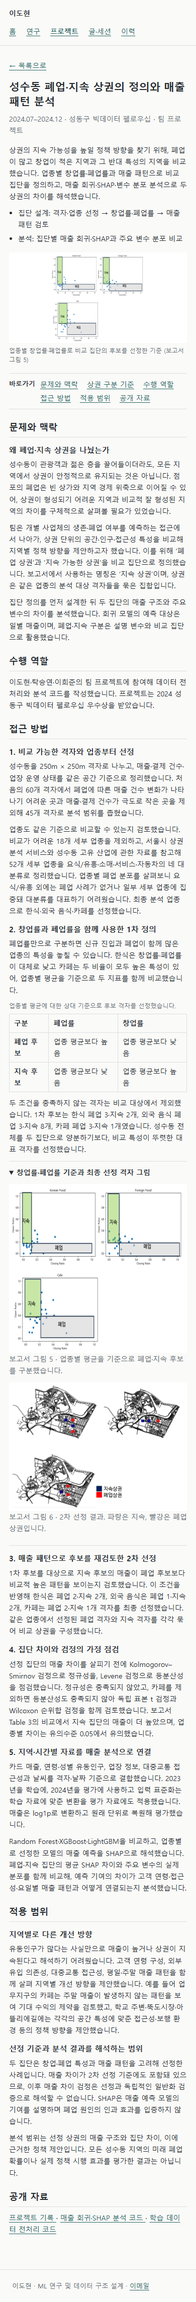
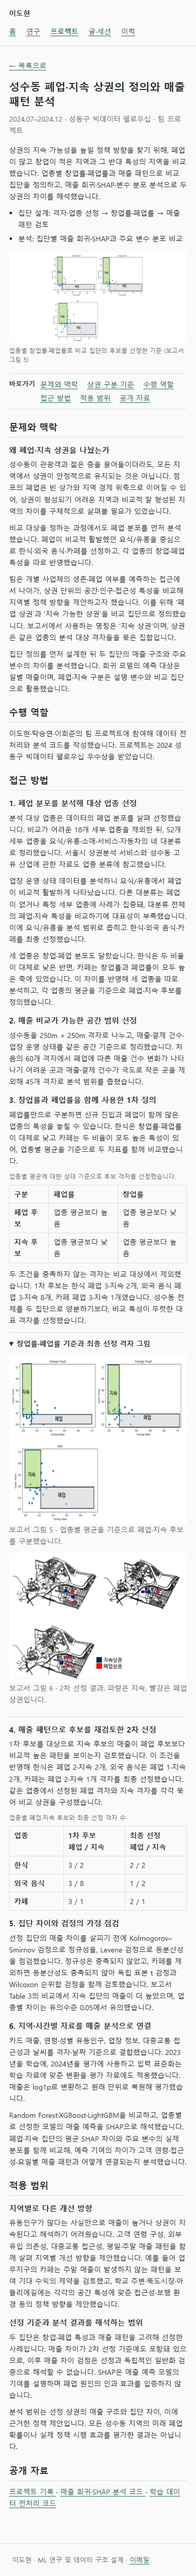
Highlight data-driven fellowship industry selection

Changed region(s): [[0.0308, 0.0, 0.9538, 0.9996]]

diff --git a/assets/previews-data.js b/assets/previews-data.js
@@ -1,1 +1,1 @@
-window.portfolioPreviews = {"research/adaboost-rdt.html": {"title": "잔차 정보를 활용한 극단 수요 예측", "meta": "IEEE ACCESS, 2024, 1저자", "summary": "극단 수요를 노이즈로 약화시키지 않고 예측하기 위해 A-MT와 잔차 트리 R-DT를 결합했습니다. 극단 수요의 오차 감소와 매우 낮은 수요의 오차 증가를 함께 평가한 연구입니다.", "points": ["방법: 선택적 Lasso 모델 트리 + 잔차 부호 특징 + 분위수 조정", "결과: 극단 수요 오차 감소와 매우 낮은 수요 오차 증가의 상충"], "image": "images/research/paper-adaboost-framework.png", "caption": "원고 Figure 1 · 수요 학습, 잔차 학습, 다음 반복의 추가 특징과 최종 예측 조정. 논문"}, "research/baseball.html": {"title": "카운트 전이 확률로 계산한 상황 중요도", "meta": "Journal of Sports Sciences, 2024, 공동1저자", "summary": "한 투구가 타석의 유불리를 얼마나 바꾸는지 IOM(Importance of Moment)으로 정의했습니다. 타석이 즉시 끝나는 경우와 볼·스트라이크로 이어지는 경우를 구분해 가중하고, 카운트별 중요도를 패스트볼 구속과 연결해 분석했습니다.", "points": ["정의: 즉시 종료와 카운트 진행의 중요도를 발생 확률로 가중", "결과: IOM·평균 구속 순위 상관 0.90; 일부 경로 독립성 한계"], "image": "images/research/baseball-pitcher-batter.png", "caption": "투수와 타자의 대결 상황 · 발표 자료 3쪽 (원 출처: smcncad)"}, "research/biased-learning.html": {"title": "불균형 데이터의 편향 학습 방지", "meta": "박사학위논문, 2025 · 학위논문 저자", "summary": "소수 클래스가 충분히 학습되지 않는 불균형 데이터 문제를 다룬 2025년 박사학위 연구입니다.", "points": ["문제: 다수 클래스 중심의 학습과 소수 클래스 정보 손실", "관련 공개 연구: 클래스별 노이즈 필터링·오버샘플링"], "image": "images/research/biased-learning-method.svg", "caption": "불균형 데이터의 편향 학습 방지 · 연구 주제 개념도"}, "research/masters-oversampling.html": {"title": "분류 난이도를 반영하는 오버샘플링 크기 산출", "meta": "석사학위논문, 2020 · 학위논문 저자", "summary": "소수 클래스 표본을 얼마나 생성할지 분류 복잡도를 활용해 결정하는 2020년 석사학위 연구입니다.", "points": ["문제: 소수 클래스 생성량을 일괄적으로 정하는 방식", "주제: 클래스 구분 난이도를 생성량 산출에 반영"], "image": "images/research/masters-oversampling-method.svg", "caption": "분류 난이도를 반영하는 오버샘플링 크기 산출 · 연구 주제 개념도"}, "research/micro-mobility.html": {"title": "이용 패턴을 반영한 공간 단위 생성", "meta": "IET ITS, 2024, 1저자", "summary": "고정 격자의 크기·경계가 수요 예측에 미치는 MAUP를 다룹니다. 이용량이 적은 지역을 결합하고 시간 패턴과 거리를 함께 사용해 예측의 공간 단위를 구성했습니다.", "points": ["방법: 기본 격자 → 주요·보조 격자 결합 → 시공간 군집화", "결과: 두 도시의 RMSE 개선, Minneapolis의 MAPE는 악화"], "image": "images/research/paper-mobility-main-grids.png", "caption": "원고 Fig. 3 · 주요 격자를 선택하고 가까운 보조 격자를 결합하는 과정. 논문"}, "research/noise-filtering.html": {"title": "소수 클래스의 어려운 표본을 보존하는 노이즈 필터링", "meta": "JIFS, 2022, 1저자", "summary": "AdaBoost에서 어려운 소수 클래스 표본을 노이즈로 과도하게 제거하는 문제를 다룹니다. 클래스별 가중치 분포에 다른 임계값을 적용하고, 원본 및 노이즈 주입 자료에서 표본 보존과 AUROC를 평가했습니다.", "points": ["방법: 클래스별 평균 기준과 분포 비대칭을 고려한 두 임계값", "평가: 11개 데이터셋·노이즈 10–40%·AUROC와 표본 보존"], "image": "images/research/paper-noise-weight-distributions.png", "caption": "논문 Fig. 1 · 소수·다수 클래스의 가중치 분포, 임계값과 노이즈 판정 비율. Abalone 예시. 논문"}, "research/online-reviews.html": {"title": "리뷰의 만족 요인과 외국인 방문객 수의 관계", "meta": "Journal of the Korean Institute of Industrial Engineers, 2021, 2저자", "summary": "관광 리뷰에서 만족 요인과 감성 점수를 추출하고, 서울생활인구의 단기체류 외국인 지표와 연결해 분석했습니다.", "points": ["방법: 문장 토픽·감성 점수 → 지역·월별 회귀", "방문 규모: 서울생활인구의 단기체류 외국인 지표"], "image": "images/research/online-reviews-method.svg", "caption": "리뷰의 만족 요인과 외국인 방문객 수의 관계 · 연구 주제 개념도"}, "research/oversampling.html": {"title": "분류 복잡도로 정하는 소수 클래스 생성량", "meta": "ESWA, 2021, 1저자", "summary": "클래스 수를 같게 만드는 데 필요한 생성량에 분류 복잡도 T를 곱해 오버샘플링 크기를 정했습니다. 생성량을 줄였을 때 AUC를 유지하거나 개선할 수 있는지 16개 데이터셋에서 검증했습니다.", "points": ["방법: 생성량 = 클래스 표본 수 차이 × 복잡도 T", "평가: 16개 데이터셋·4개 부스팅 방식·반복 5분할 검증"], "image": "images/research/paper-oversampling-complexity.png", "caption": "원고 Figure 1 · 데이터셋별 F1·F2·N1·N2 분류 복잡도 값의 분포. 성능 지표 F1과는 다릅니다. 논문"}, "projects/documents.html": {"title": "문서 데이터 표준화 및 구조 설계", "meta": "수행 맥락 정리 중 · 문서 분석·표준화·구조 설계", "summary": "다양한 형식의 문서를 분석하고, 같은 정보의 표현 차이를 공통 기준으로 표준화했습니다. 사용과 유지보수를 고려한 데이터 구조 설계에 참여했습니다.", "points": ["작업: 문서의 표현 차이·맥락 분석", "범위: 공통 기준 정리·일관성 검토·구조 설계"], "image": "images/research/documents-method.svg", "caption": "문서 데이터 표준화 및 구조 설계 · 작업·구현 흐름 개념도"}, "projects/emergency-exit.html": {"title": "시각장애인을 위한 비상구 표지판 인식", "meta": "서울과학기술대학교 IoT 수업 · 팀 프로젝트", "summary": "실내 이미지에서 비상구 표지판을 구분하는 분류 모델을 만들고, 경량 실행을 위한 TensorFlow Lite 변환을 수행했습니다. 비상구 여부를 판단하는 모델과 표지판 유형까지 구분하는 모델을 나누어 실험했습니다.", "points": ["모델: MobileNetV2의 비상구 여부·표지 유형 분류", "구현: 전이학습 → TFLite 양자화 → Edge TPU 변환"], "image": "images/research/exit-architecture.png", "caption": "학습 모델에서 TFLite·Edge TPU로 변환하는 흐름. 공개 팀 프로젝트의 기존 도식. 출처"}, "projects/federated.html": {"title": "Flower를 이용한 연합학습 실험", "meta": "서울과학기술대학교 데이터베이스 수업 · 팀 프로젝트", "summary": "클라이언트의 데이터 품질이 서로 다를 때, 모델을 단순히 합치는 것만으로 좋은 전역 모델을 만들 수 있을까? Flower로 집계 전략을 비교하고, 잘못된 라벨이 포함된 클라이언트의 업데이트를 제어하는 방법을 실험했습니다.", "points": ["실험: 집계 전략 4종과 정상·라벨 오류 클라이언트", "결과: 노름 필터링·클리핑은 해당 실험에서 개선 없음"], "image": "images/research/flower-accuracy.png", "caption": "MNIST 집계 전략별 테스트 정확도 곡선. 공개 팀 프로젝트의 기존 실험 그림. 출처"}, "projects/finance.html": {"title": "보험 청구 심사 유형 분류", "meta": "2020.08–2020.10 · 금융 빅데이터 페스티벌 · 팀 프로젝트", "summary": "보험 청구 건을 즉시지급·서류심사·방문심사로 분류하는 대회에 참여했습니다. 질병·진료·의료기관 정보를 전처리하고, 질병군별 LightGBM 모델과 교차 검증으로 제출 예측을 구성했습니다.", "points": ["모델: 질병군별 LightGBM 분류", "검증: 층화 5분할과 정확도·F1"], "image": "images/research/finance-method.svg", "caption": "보험 청구 심사 유형 분류 · 작업·구현 흐름 개념도"}, "projects/gan.html": {"title": "불균형 이미지 데이터의 GAN 기반 증강", "meta": "2019 대학원 팀 프로젝트 · 2023 개인 후속 연구", "summary": "소수 클래스의 개수를 맞추는 것을 넘어, 어떤 생성 샘플이 분류에 실제로 유용한지 탐색했습니다. 공통 표현을 활용하는 클래스별 생성과 두 Critic 신호를 결합하는 생성 방법을 구현하고, 이미지 품질과 분류 유용성이 일치하지 않는 한계를 검토했습니다.", "points": ["구현: 클래스별 잠재분포와 Dual-Critic·윤곽 손실", "한계: Critic 점수와 윤곽만으로 유용한 경계 샘플을 판단하기 어려움"], "image": "images/research/portfolio-gan-class-aware.png", "caption": "Class-aware generation · 공통 표현 학습과 클래스별 잠재분포를 이용한 이미지 생성 흐름"}, "projects/manufacturing-data.html": {"title": "제조 데이터 정합성 검증과 연결", "meta": "현업 프로젝트 · 공개 범위를 일반화한 설명", "summary": "서로 다른 단계에서 수집된 데이터를 동일 대상 기준으로 연결하고, 분석과 모델 학습에 사용할 수 있는 데이터셋으로 정리했습니다. 연결 가능한 데이터인지 먼저 검증하는 것이 핵심입니다.", "points": ["작업: 동일 대상 기준의 단계 간 1:1 연결", "기준: 메타데이터 정합성·정렬·정규화"], "image": "images/research/../aiguru-validation-etl.png", "caption": "동일 대상 기준의 단계 간 1:1 연결을 나타낸 일반화 도식. 실제 내부 구조를 재현하지 않습니다."}, "projects/ood.html": {"title": "데이터 품질 차이를 고려한 OOD 일반화", "meta": "수업·개인 프로젝트 · 수업 과제", "summary": "훈련 환경마다 라벨 오류의 정도가 다를 때 IRM의 규제 항을 어떻게 조정할지 실험했습니다. Colored MNIST에서 환경별 데이터 품질과 입력 변화에 대한 민감도를 규제 설계에 반영했습니다.", "points": ["실험: 환경별 라벨 품질이 다른 Colored MNIST", "방법: IRM 규제의 환경 가중치·입력 민감도 조정"], "image": "images/research/ood-method.svg", "caption": "데이터 품질 차이를 고려한 OOD 일반화 · 작업·구현 흐름 개념도"}, "projects/sungsoo.html": {"title": "성수동 폐업·지속 상권의 정의와 매출 패턴 분석", "meta": "2024.07–2024.12 · 성동구 빅데이터 펠로우십 · 팀 프로젝트", "summary": "상권의 지속 가능성을 높일 정책 방향을 찾기 위해, 폐업이 많고 창업이 적은 지역과 그 반대 특성의 지역을 비교했습니다. 업종별 창업률·폐업률과 매출 패턴으로 비교 집단을 정의하고, 매출 회귀·SHAP·변수 분포 분석으로 두 상권의 차이를 해석했습니다.", "points": ["설계: 대상 격자·업종 → 창업률·폐업률 → 매출 패턴·집단 검토", "분석: 매출 회귀·SHAP과 변수 분포로 지역별 차이 해석"], "image": "images/research/fellowship-group-definition.png", "caption": "업종별 창업률·폐업률로 비교 집단의 후보를 선정한 기준 (보고서 그림 5)"}, "projects/time-series-data.html": {"title": "제조 시계열 데이터 정렬과 ML 파이프라인", "meta": "현업 프로젝트 · 공개 범위를 일반화한 설명", "summary": "수집 시점과 간격이 서로 다른 제조 데이터를 모델 학습과 평가에 사용할 수 있도록 정리했습니다. 시간 정렬뿐 아니라 예측 시점에 실제로 사용할 수 있는 정보인지 확인하는 데 중점을 뒀습니다.", "points": ["작업: 기록 시점과 정보의 의미를 검토해 정렬", "기준: 학습 입력과 실제 사용 시점의 정보 일치"], "image": "images/research/time-series-data-method.svg", "caption": "제조 시계열 데이터 정렬과 ML 파이프라인 · 작업·구현 흐름 개념도"}};
+window.portfolioPreviews = {"research/adaboost-rdt.html": {"title": "잔차 정보를 활용한 극단 수요 예측", "meta": "IEEE ACCESS, 2024, 1저자", "summary": "극단 수요를 노이즈로 약화시키지 않고 예측하기 위해 A-MT와 잔차 트리 R-DT를 결합했습니다. 극단 수요의 오차 감소와 매우 낮은 수요의 오차 증가를 함께 평가한 연구입니다.", "points": ["방법: 선택적 Lasso 모델 트리 + 잔차 부호 특징 + 분위수 조정", "결과: 극단 수요 오차 감소와 매우 낮은 수요 오차 증가의 상충"], "image": "images/research/paper-adaboost-framework.png", "caption": "원고 Figure 1 · 수요 학습, 잔차 학습, 다음 반복의 추가 특징과 최종 예측 조정. 논문"}, "research/baseball.html": {"title": "카운트 전이 확률로 계산한 상황 중요도", "meta": "Journal of Sports Sciences, 2024, 공동1저자", "summary": "한 투구가 타석의 유불리를 얼마나 바꾸는지 IOM(Importance of Moment)으로 정의했습니다. 타석이 즉시 끝나는 경우와 볼·스트라이크로 이어지는 경우를 구분해 가중하고, 카운트별 중요도를 패스트볼 구속과 연결해 분석했습니다.", "points": ["정의: 즉시 종료와 카운트 진행의 중요도를 발생 확률로 가중", "결과: IOM·평균 구속 순위 상관 0.90; 일부 경로 독립성 한계"], "image": "images/research/baseball-pitcher-batter.png", "caption": "투수와 타자의 대결 상황 · 발표 자료 3쪽 (원 출처: smcncad)"}, "research/biased-learning.html": {"title": "불균형 데이터의 편향 학습 방지", "meta": "박사학위논문, 2025 · 학위논문 저자", "summary": "소수 클래스가 충분히 학습되지 않는 불균형 데이터 문제를 다룬 2025년 박사학위 연구입니다.", "points": ["문제: 다수 클래스 중심의 학습과 소수 클래스 정보 손실", "관련 공개 연구: 클래스별 노이즈 필터링·오버샘플링"], "image": "images/research/biased-learning-method.svg", "caption": "불균형 데이터의 편향 학습 방지 · 연구 주제 개념도"}, "research/masters-oversampling.html": {"title": "분류 난이도를 반영하는 오버샘플링 크기 산출", "meta": "석사학위논문, 2020 · 학위논문 저자", "summary": "소수 클래스 표본을 얼마나 생성할지 분류 복잡도를 활용해 결정하는 2020년 석사학위 연구입니다.", "points": ["문제: 소수 클래스 생성량을 일괄적으로 정하는 방식", "주제: 클래스 구분 난이도를 생성량 산출에 반영"], "image": "images/research/masters-oversampling-method.svg", "caption": "분류 난이도를 반영하는 오버샘플링 크기 산출 · 연구 주제 개념도"}, "research/micro-mobility.html": {"title": "이용 패턴을 반영한 공간 단위 생성", "meta": "IET ITS, 2024, 1저자", "summary": "고정 격자의 크기·경계가 수요 예측에 미치는 MAUP를 다룹니다. 이용량이 적은 지역을 결합하고 시간 패턴과 거리를 함께 사용해 예측의 공간 단위를 구성했습니다.", "points": ["방법: 기본 격자 → 주요·보조 격자 결합 → 시공간 군집화", "결과: 두 도시의 RMSE 개선, Minneapolis의 MAPE는 악화"], "image": "images/research/paper-mobility-main-grids.png", "caption": "원고 Fig. 3 · 주요 격자를 선택하고 가까운 보조 격자를 결합하는 과정. 논문"}, "research/noise-filtering.html": {"title": "소수 클래스의 어려운 표본을 보존하는 노이즈 필터링", "meta": "JIFS, 2022, 1저자", "summary": "AdaBoost에서 어려운 소수 클래스 표본을 노이즈로 과도하게 제거하는 문제를 다룹니다. 클래스별 가중치 분포에 다른 임계값을 적용하고, 원본 및 노이즈 주입 자료에서 표본 보존과 AUROC를 평가했습니다.", "points": ["방법: 클래스별 평균 기준과 분포 비대칭을 고려한 두 임계값", "평가: 11개 데이터셋·노이즈 10–40%·AUROC와 표본 보존"], "image": "images/research/paper-noise-weight-distributions.png", "caption": "논문 Fig. 1 · 소수·다수 클래스의 가중치 분포, 임계값과 노이즈 판정 비율. Abalone 예시. 논문"}, "research/online-reviews.html": {"title": "리뷰의 만족 요인과 외국인 방문객 수의 관계", "meta": "Journal of the Korean Institute of Industrial Engineers, 2021, 2저자", "summary": "관광 리뷰에서 만족 요인과 감성 점수를 추출하고, 서울생활인구의 단기체류 외국인 지표와 연결해 분석했습니다.", "points": ["방법: 문장 토픽·감성 점수 → 지역·월별 회귀", "방문 규모: 서울생활인구의 단기체류 외국인 지표"], "image": "images/research/online-reviews-method.svg", "caption": "리뷰의 만족 요인과 외국인 방문객 수의 관계 · 연구 주제 개념도"}, "research/oversampling.html": {"title": "분류 복잡도로 정하는 소수 클래스 생성량", "meta": "ESWA, 2021, 1저자", "summary": "클래스 수를 같게 만드는 데 필요한 생성량에 분류 복잡도 T를 곱해 오버샘플링 크기를 정했습니다. 생성량을 줄였을 때 AUC를 유지하거나 개선할 수 있는지 16개 데이터셋에서 검증했습니다.", "points": ["방법: 생성량 = 클래스 표본 수 차이 × 복잡도 T", "평가: 16개 데이터셋·4개 부스팅 방식·반복 5분할 검증"], "image": "images/research/paper-oversampling-complexity.png", "caption": "원고 Figure 1 · 데이터셋별 F1·F2·N1·N2 분류 복잡도 값의 분포. 성능 지표 F1과는 다릅니다. 논문"}, "projects/documents.html": {"title": "문서 데이터 표준화 및 구조 설계", "meta": "수행 맥락 정리 중 · 문서 분석·표준화·구조 설계", "summary": "다양한 형식의 문서를 분석하고, 같은 정보의 표현 차이를 공통 기준으로 표준화했습니다. 사용과 유지보수를 고려한 데이터 구조 설계에 참여했습니다.", "points": ["작업: 문서의 표현 차이·맥락 분석", "범위: 공통 기준 정리·일관성 검토·구조 설계"], "image": "images/research/documents-method.svg", "caption": "문서 데이터 표준화 및 구조 설계 · 작업·구현 흐름 개념도"}, "projects/emergency-exit.html": {"title": "시각장애인을 위한 비상구 표지판 인식", "meta": "서울과학기술대학교 IoT 수업 · 팀 프로젝트", "summary": "실내 이미지에서 비상구 표지판을 구분하는 분류 모델을 만들고, 경량 실행을 위한 TensorFlow Lite 변환을 수행했습니다. 비상구 여부를 판단하는 모델과 표지판 유형까지 구분하는 모델을 나누어 실험했습니다.", "points": ["모델: MobileNetV2의 비상구 여부·표지 유형 분류", "구현: 전이학습 → TFLite 양자화 → Edge TPU 변환"], "image": "images/research/exit-architecture.png", "caption": "학습 모델에서 TFLite·Edge TPU로 변환하는 흐름. 공개 팀 프로젝트의 기존 도식. 출처"}, "projects/federated.html": {"title": "Flower를 이용한 연합학습 실험", "meta": "서울과학기술대학교 데이터베이스 수업 · 팀 프로젝트", "summary": "클라이언트의 데이터 품질이 서로 다를 때, 모델을 단순히 합치는 것만으로 좋은 전역 모델을 만들 수 있을까? Flower로 집계 전략을 비교하고, 잘못된 라벨이 포함된 클라이언트의 업데이트를 제어하는 방법을 실험했습니다.", "points": ["실험: 집계 전략 4종과 정상·라벨 오류 클라이언트", "결과: 노름 필터링·클리핑은 해당 실험에서 개선 없음"], "image": "images/research/flower-accuracy.png", "caption": "MNIST 집계 전략별 테스트 정확도 곡선. 공개 팀 프로젝트의 기존 실험 그림. 출처"}, "projects/finance.html": {"title": "보험 청구 심사 유형 분류", "meta": "2020.08–2020.10 · 금융 빅데이터 페스티벌 · 팀 프로젝트", "summary": "보험 청구 건을 즉시지급·서류심사·방문심사로 분류하는 대회에 참여했습니다. 질병·진료·의료기관 정보를 전처리하고, 질병군별 LightGBM 모델과 교차 검증으로 제출 예측을 구성했습니다.", "points": ["모델: 질병군별 LightGBM 분류", "검증: 층화 5분할과 정확도·F1"], "image": "images/research/finance-method.svg", "caption": "보험 청구 심사 유형 분류 · 작업·구현 흐름 개념도"}, "projects/gan.html": {"title": "불균형 이미지 데이터의 GAN 기반 증강", "meta": "2019 대학원 팀 프로젝트 · 2023 개인 후속 연구", "summary": "소수 클래스의 개수를 맞추는 것을 넘어, 어떤 생성 샘플이 분류에 실제로 유용한지 탐색했습니다. 공통 표현을 활용하는 클래스별 생성과 두 Critic 신호를 결합하는 생성 방법을 구현하고, 이미지 품질과 분류 유용성이 일치하지 않는 한계를 검토했습니다.", "points": ["구현: 클래스별 잠재분포와 Dual-Critic·윤곽 손실", "한계: Critic 점수와 윤곽만으로 유용한 경계 샘플을 판단하기 어려움"], "image": "images/research/portfolio-gan-class-aware.png", "caption": "Class-aware generation · 공통 표현 학습과 클래스별 잠재분포를 이용한 이미지 생성 흐름"}, "projects/manufacturing-data.html": {"title": "제조 데이터 정합성 검증과 연결", "meta": "현업 프로젝트 · 공개 범위를 일반화한 설명", "summary": "서로 다른 단계에서 수집된 데이터를 동일 대상 기준으로 연결하고, 분석과 모델 학습에 사용할 수 있는 데이터셋으로 정리했습니다. 연결 가능한 데이터인지 먼저 검증하는 것이 핵심입니다.", "points": ["작업: 동일 대상 기준의 단계 간 1:1 연결", "기준: 메타데이터 정합성·정렬·정규화"], "image": "images/research/../aiguru-validation-etl.png", "caption": "동일 대상 기준의 단계 간 1:1 연결을 나타낸 일반화 도식. 실제 내부 구조를 재현하지 않습니다."}, "projects/ood.html": {"title": "데이터 품질 차이를 고려한 OOD 일반화", "meta": "수업·개인 프로젝트 · 수업 과제", "summary": "훈련 환경마다 라벨 오류의 정도가 다를 때 IRM의 규제 항을 어떻게 조정할지 실험했습니다. Colored MNIST에서 환경별 데이터 품질과 입력 변화에 대한 민감도를 규제 설계에 반영했습니다.", "points": ["실험: 환경별 라벨 품질이 다른 Colored MNIST", "방법: IRM 규제의 환경 가중치·입력 민감도 조정"], "image": "images/research/ood-method.svg", "caption": "데이터 품질 차이를 고려한 OOD 일반화 · 작업·구현 흐름 개념도"}, "projects/sungsoo.html": {"title": "성수동 폐업·지속 상권의 정의와 매출 패턴 분석", "meta": "2024.07–2024.12 · 성동구 빅데이터 펠로우십 · 팀 프로젝트", "summary": "상권의 지속 가능성을 높일 정책 방향을 찾기 위해, 폐업이 많고 창업이 적은 지역과 그 반대 특성의 지역을 비교했습니다. 업종별 창업률·폐업률과 매출 패턴으로 비교 집단을 정의하고, 매출 회귀·SHAP·변수 분포 분석으로 두 상권의 차이를 해석했습니다.", "points": ["업종 선정: 폐업 분포를 분석해 요식/유흥의 한식·외국 음식·카페 선정", "집단 정의: 업종별 평균 대비 창업률·폐업률 → 매출 패턴 재검토"], "image": "images/research/fellowship-group-definition.png", "caption": "업종별 창업률·폐업률로 비교 집단의 후보를 선정한 기준 (보고서 그림 5)"}, "projects/time-series-data.html": {"title": "제조 시계열 데이터 정렬과 ML 파이프라인", "meta": "현업 프로젝트 · 공개 범위를 일반화한 설명", "summary": "수집 시점과 간격이 서로 다른 제조 데이터를 모델 학습과 평가에 사용할 수 있도록 정리했습니다. 시간 정렬뿐 아니라 예측 시점에 실제로 사용할 수 있는 정보인지 확인하는 데 중점을 뒀습니다.", "points": ["작업: 기록 시점과 정보의 의미를 검토해 정렬", "기준: 학습 입력과 실제 사용 시점의 정보 일치"], "image": "images/research/time-series-data-method.svg", "caption": "제조 시계열 데이터 정렬과 ML 파이프라인 · 작업·구현 흐름 개념도"}};

diff --git a/projects/sungsoo.html b/projects/sungsoo.html
@@ -118,6 +118,9 @@
      성수동이 관광객과 젊은 층을 끌어들이더라도, 모든 지역에서 상권이 안정적으로 유지되는 것은 아닙니다. 점포의 폐업은 빈 상가와 지역 경제 위축으로 이어질 수 있어, 상권이 형성되기 어려운 지역과 비교적 잘 형성된 지역의 차이를 구체적으로 살펴볼 필요가 있었습니다.
     </p>
     <p>
+     비교 대상을 정하는 과정에서도 폐업 분포를 먼저 분석했습니다. 폐업이 비교적 활발했던 요식/유흥을 중심으로 한식·외국 음식·카페를 선정하고, 각 업종의 창업·폐업 특성을 따로 반영했습니다.
+    </p>
+    <p>
      팀은 개별 사업체의 생존·폐업 여부를 예측하는 접근에서 나아가, 상권 단위의 공간·인구·접근성 특성을 비교해 지역별 정책 방향을 제안하고자 했습니다. 이를 위해 ‘폐업 상권’과 ‘지속 가능한 상권’을 비교 집단으로 정의했습니다. 보고서에서 사용하는 명칭은 ‘지속 상권’이며, 상권은 같은 업종의 분석 대상 격자들을 묶은 집합입니다.
     </p>
     <p>
@@ -137,16 +140,25 @@
      접근 방법
     </h2>
     <h3 id="group-definition">
-     1. 비교 가능한 격자와 업종부터 선정
+     1. 폐업 분포를 분석해 대상 업종 선정
+    </h3>
+    <p>
+     분석 대상 업종은 데이터의 폐업 분포를 살펴 선정했습니다. 비교가 어려운 18개 세부 업종을 제외한 뒤, 52개 세부 업종을 요식/유흥·소매·서비스·자동차의 네 대분류로 정리했습니다. 서울시 상권분석 서비스와 성수동 고유 산업에 관한 자료도 업종 분류에 참고했습니다.
+    </p>
+    <p>
+     업장 운영 상태 데이터를 분석하니 요식/유흥에서 폐업이 비교적 활발하게 나타났습니다. 다른 대분류는 폐업이 없거나 특정 세부 업종에 사례가 집중돼, 대분류 전체의 폐업·지속 특성을 비교하기에 대표성이 부족했습니다. 이에 요식/유흥을 분석 범위로 좁히고 한식·외국 음식·카페를 최종 선정했습니다.
+    </p>
+    <p>
+     세 업종은 창업·폐업 분포도 달랐습니다. 한식은 두 비율이 대체로 낮은 반면, 카페는 창업률과 폐업률이 모두 높은 축에 있었습니다. 이 차이를 반영해 세 업종을 따로 분석하고, 각 업종의 평균을 기준으로 폐업·지속 후보를 정의했습니다.
+    </p>
+    <h3>
+     2. 매출 비교가 가능한 공간 범위 선정
     </h3>
     <p>
      성수동을 250m × 250m 격자로 나누고, 매출·결제 건수·업장 운영 상태를 같은 공간 기준으로 정리했습니다. 처음의 60개 격자에서 폐업에 따른 매출 건수 변화가 나타나기 어려운 곳과 매출·결제 건수가 극도로 작은 곳을 제외해 45개 격자로 분석 범위를 좁혔습니다.
     </p>
-    <p>
-     업종도 같은 기준으로 비교할 수 있는지 검토했습니다. 비교가 어려운 18개 세부 업종을 제외하고, 서울시 상권분석 서비스와 성수동 고유 산업에 관한 자료를 참고해 52개 세부 업종을 요식/유흥·소매·서비스·자동차의 네 대분류로 정리했습니다. 업종별 폐업 분포를 살펴보니 요식/유흥 외에는 폐업 사례가 없거나 일부 세부 업종에 집중돼 대분류를 대표하기 어려웠습니다. 최종 분석 업종으로 한식·외국 음식·카페를 선정했습니다.
-    </p>
     <h3>
-     2. 창업률과 폐업률을 함께 사용한 1차 정의
+     3. 창업률과 폐업률을 함께 사용한 1차 정의
     </h3>
     <p>
      폐업률만으로 구분하면 신규 진입과 폐업이 함께 많은 업종의 특성을 놓칠 수 있습니다. 한식은 창업률·폐업률이 대체로 낮고 카페는 두 비율이 모두 높은 특성이 있어, 업종별 평균을 기준으로 두 지표를 함께 비교했습니다.
@@ -220,19 +232,78 @@
      </figure>
     </details>
     <h3>
-     3. 매출 패턴으로 후보를 재검토한 2차 선정
+     4. 매출 패턴으로 후보를 재검토한 2차 선정
     </h3>
     <p>
      1차 후보를 대상으로 지속 후보의 매출이 폐업 후보보다 비교적 높은 패턴을 보이는지 검토했습니다. 이 조건을 반영해 한식은 폐업 2·지속 2개, 외국 음식은 폐업 1·지속 2개, 카페는 폐업 2·지속 1개 격자를 최종 선정했습니다. 같은 업종에서 선정된 폐업 격자와 지속 격자를 각각 묶어 비교 상권을 구성했습니다.
     </p>
+    <div class="result-table">
+     <table>
+      <caption>
+       업종별 폐업·지속 후보와 최종 선정 격자 수
+      </caption>
+      <thead>
+       <tr>
+        <th scope="col">
+         업종
+        </th>
+        <th scope="col">
+         1차 후보
+         <br/>
+         폐업 / 지속
+        </th>
+        <th scope="col">
+         최종 선정
+         <br/>
+         폐업 / 지속
+        </th>
+       </tr>
+      </thead>
+      <tbody>
+       <tr>
+        <th scope="row">
+         한식
+        </th>
+        <td>
+         3 / 2
+        </td>
+        <td>
+         2 / 2
+        </td>
+       </tr>
+       <tr>
+        <th scope="row">
+         외국 음식
+        </th>
+        <td>
+         3 / 8
+        </td>
+        <td>
+         1 / 2
+        </td>
+       </tr>
+       <tr>
+        <th scope="row">
+         카페
+        </th>
+        <td>
+         3 / 1
+        </td>
+        <td>
+         2 / 1
+        </td>
+       </tr>
+      </tbody>
+     </table>
+    </div>
     <h3>
-     4. 집단 차이와 검정의 가정 점검
+     5. 집단 차이와 검정의 가정 점검
     </h3>
     <p>
      선정 집단의 매출 차이를 살피기 전에 Kolmogorov–Smirnov 검정으로 정규성을, Levene 검정으로 등분산성을 점검했습니다. 정규성은 충족되지 않았고, 카페를 제외하면 등분산성도 충족되지 않아 독립 표본 t 검정과 Wilcoxon 순위합 검정을 함께 검토했습니다. 보고서 Table 3의 비교에서 지속 집단의 매출이 더 높았으며, 업종별 차이는 유의수준 0.05에서 유의했습니다.
     </p>
     <h3>
-     5. 지역·시간별 자료를 매출 분석으로 연결
+     6. 지역·시간별 자료를 매출 분석으로 연결
     </h3>
     <p>
      카드 매출, 연령·성별 유동인구, 업장 정보, 대중교통 접근성과 날씨를 격자·날짜 기준으로 결합했습니다. 2023년을 학습에, 2024년을 평가에 사용하고 입력 표준화는 학습 자료에 맞춘 변환을 평가 자료에도 적용했습니다. 매출은 log1p로 변환하고 원래 단위로 복원해 평가했습니다.

diff --git a/docs/review/REVIEW.md b/docs/review/REVIEW.md
@@ -6,6 +6,8 @@ main 병합과 실제 사이트 배포는 수행하지 않습니다.
 
 ## 변경 내용
 
+- 펠로우십 업종 선정의 데이터 분석 맥락을 문제 설정과 접근 방법 첫 단계에서 강조했습니다. 폐업이 비교적 활발한 요식/유흥을 중심으로 한식·외국 음식·카페를 선정하고 업종별 창업·폐업 분포를 따로 반영한 이유를 설명합니다. 후보·최종 선정 격자 수를 업종별 표로 구분합니다. 보고서에 없는 세 업종 간 폐업률 순위나 고정 임계값은 추가하지 않았습니다.
+
 - 성동구 펠로우십의 핵심을 비교 집단 정의부터 소개하도록 보강했습니다. 보고서 4–17쪽에 근거해 왜 상권 단위로 비교했는지, 60→45 격자와 업종 선정, 업종별 창업률·폐업률 평균 기준, 매출 패턴을 반영한 2차 선정, 검정 가정 점검을 설명합니다. ‘지속 가능한 상권’ 명칭과 팀 단위 작업을 유지하고 선정 기준에 매출이 포함된 점을 해석의 한계로 명시했습니다. [보고서 대조](FELLOWSHIP-SOURCE.md), [화면 검증](fellowship-browser-results.json).
 
 - 최종 야구 페이지에는 추가 수업 설명·슬라이드 없이 투수·타자 그림만 논문 제목·정보 바로 아래에 독립 배치했습니다. 기존 논문 설명과 논문 결과 그림은 유지합니다.
